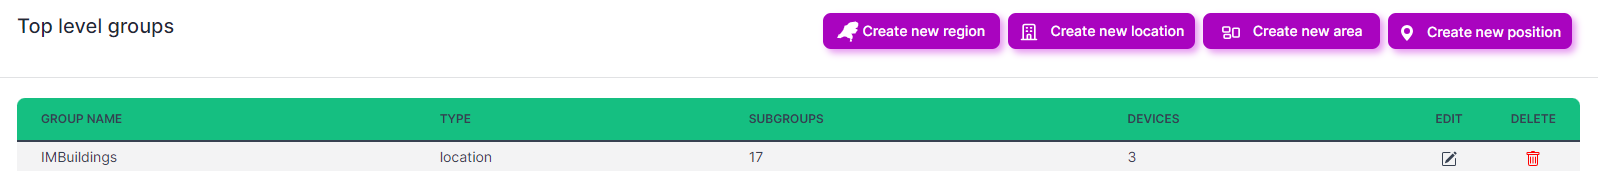
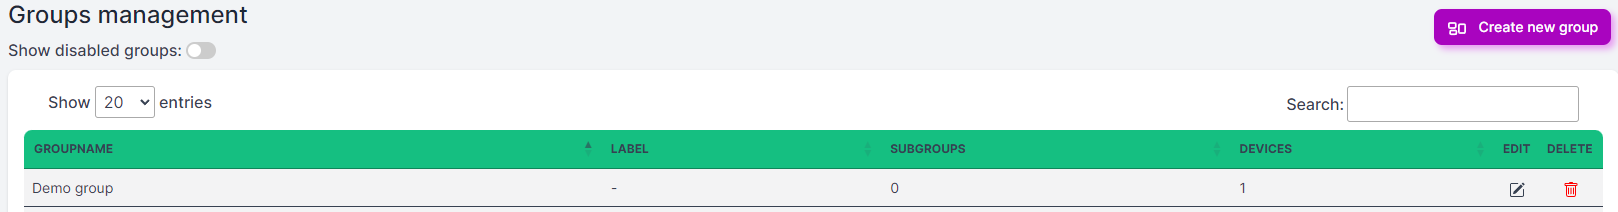
Update Cloud Documentation for V2.0.5

diff --git a/quick-start/cloud/README.md b/quick-start/cloud/README.md
@@ -10,6 +10,8 @@ We will quickly go through the following topics:
 - [Creating users](#creating-users)
 - [Using the dashboard](#using-the-dashboard)
 
+We post demo's on [our YouTube channel](https://www.youtube.com/@immotion4802).
+
 ## Login
 
 Your supplier will share the username and password for login.
@@ -27,22 +29,58 @@ To login open the following URL: [https://app.im-motion.net](https://app.im-moti
 
 !> You can continue to [Adding groups](#adding-groups) when you have a **People Counter NB-IoT** or when your **supplier already added the devices** for you
 
-?> More information is coming soon
+Check out the [claim device demo](https://www.youtube.com/watch?v=BC-9KPNkMdQ) 
+
+You can claim a device on the [devices page](https://app.im-motion.net/devices), click the **Claim a new device** button<img src="./assets/cloud/claim-device-button.png" alt="Claim a new device" class="image-75"> to navigate to the [claim page](https://app.im-motion.net/claim).
+
+!> Make sure the device is turned on before you atempt to claim it. 
+
+**1. Fill in the ID of the device** in the input field. You can find the device ID on the back of the device. The device ID could be labeled as 'Device EUI', 'Node ID' or 'MAC-Address' depending on your device type.
+
+<img src="./assets/cloud/claim-step1.png" alt="claim-step1" class="image-75 image-center image-border">
+
+It may be that you require a 'Release key', if this is not given to you, contact your supplier.
+
+**2. Fill in a name for the device** in the input field. This name should be clear, so you can identify the device without having to check the ID.
+
+<img src="./assets/cloud/claim-step2.png" alt="claim-step2" class="image-75 image-center image-border">
+
+**3. Select a group** in the select field **or create a new group**. You can create a new group by clicking on the 'Create new group button', more on this at [Adding groups](#adding-groups).
+
+<img src="./assets/cloud/claim-step3.png" alt="claim-step3" class="image-75 image-center image-border">
+
+**4. Finished** the claim. You are done with the claim, you will find 3 buttons which you can use to navigate to a desired location
+
+<img src="./assets/cloud/claim-step4.png" alt="claim-step4" class="image-75 image-center image-border">
+
+?> **Note:** you can search within the selection box
+
+!> To have access to the Settings you must have Admin rights.
 
 ## Adding groups
 
-To see data in the [dashboard](https://app.im-motion.net/dashboard/) you need to create one or more locations (groups).
+To see data in the [dashboard](https://app.im-motion.net/dashboard/) you should create one or more groups. Groups have different settings to attend your needs. 
 
-Groups can be managed on the [Group Management page](https://app.im-motion.net/manager/groups). This can be opened via the menu **Settings->Groups**.
+Check out the [add group demo](https://www.youtube.com/watch?v=EhrddjzvBDs).
 
-To add a new location just click the **Create new location** button<img src="./assets/cloud/create-new-location-button.png" alt="Create new location" class="image-75"> on the [Group Management page](https://app.im-motion.net/manager/groups) and fill out the form.
+Groups can be managed on the [Groups page](https://app.im-motion.net/groups). This can be opened via the menu **Settings->Groups**.
 
-<img src="./assets/cloud/create-location.png" alt="create location" class="image-75 image-center image-border">
+To add a new group just click the **Create new group** button<img src="./assets/cloud/add-new-group-button.png" alt="Create new group" class="image-75"> on the [Groups page](https://app.im-motion.net/groups). This button will open the create group wizard as shown in the image below, the wizard consists of 2 steps.
 
-Once the location is added it will appear in the Groups list<br>
+**1. Give the new group a name** in the input field. 
+
+**2. Select one or more devices** in the select field. 
+
+<img src="./assets/cloud/create-new-group-step1.png" alt="create-new-group-step1" class="image-75 image-center image-border">
+
+**3. Select a display setting** in the select field. 
+
+<img src="./assets/cloud/create-new-group-step2.png" alt="create-new-group-step2" class="image-75 image-center image-border">
+
+Once the group is added it will appear in the Groups list<br>
 <img src="./assets/cloud/group-management-list.png" alt="group management list" class="image-75 image-center image-border">
 
-?>**Note** that you can always change the group details by clicking on the edit icon of a group you want to change within the groups overview.
+?>**Note** that you can always change the group details/settings by clicking on the edit icon of a group you want to change within the groups overview.
 
 !> To have access to the Settings you must have Admin rights.
 
@@ -50,25 +88,29 @@ Once the location is added it will appear in the Groups list<br>
 
 Once you have created a group you can link one or more devices to it.
 
-Groups can be managed on the [Group Management page](https://app.im-motion.net/manager/groups). This can be opened via the menu **Settings->Groups**.
+Check out the [link device demo](https://www.youtube.com/watch?v=3nbCeEA9rWg)
+
+Groups can be managed on the [Groups page](https://app.im-motion.net/groups). This can be opened via the menu **Settings->Groups**.
 
 To edit group details click on the group you want to edit.
 
-Devices can be linked by clicking the **Link device** button<img src="./assets/cloud/link-device-button.png" alt="Link device" class="image-75">.
-<img src="./assets/cloud/linked-devices-no-device.png" alt="linked devices" class="image-75 image-center image-border">
+Devices can be linked by clicking the **Link device** button.
+<img src="./assets/cloud/link-device-button.png" alt="linked devices" class="image-75 image-center image-border">
 
-Select or search the device you want to link to this location.
+Select or search the device you want to link to this group.
 <img src="./assets/cloud/link-device-form.png" alt="linked devices" class="image-75 image-center image-border">
 
 ?> **Note:** you can search within the selection box
 
 !>In case there are no devices to select please read the [Adding devices](#adding-devices) section.
 
+!> To have access to the Settings you must have Admin rights.
+
 ## Creating users
 
 To login on the account/tenant we recommend to create a user account for each user who is going to use the platform.
 
-Users can be managed on the [User Management page](https://app.im-motion.net/users/) via the menu **Settings->Users**.
+Users can be managed on the [Users page](https://app.im-motion.net/users/) via the menu **Settings->Users**.
 <img src="./assets/cloud/users-list.png" alt="Users list" class="image-75 image-center image-border">
 
 To add a user simply click on the **Add user** button<img src="./assets/cloud/add-user-button.png" alt="Link device" class="image-75">.
@@ -85,13 +127,13 @@ Enter the username and password for the new user and select the role.
 
 **User**
 
-This user can see the data from all locations.<br>
+This user can see the data from all groups and devices.<br>
 This user does not have access to Settings.
 
 **Restricted user**
 
-A restricted user can only see data from a selected list of locations.<br>
-When adding a restricted user one or more locations can be selected.<br>
+A restricted user can only see data from a selected list of groups.<br>
+When adding a restricted user one or more groups can be selected.<br>
 This user does not have access to Settings.
 
 **Admin**
@@ -103,10 +145,133 @@ When adding the user the platform will ask for **your user credentials** for add
 
 Once the user is added please inform that person by sharing the username and password to allow them to [login](https://app.im-motion.net).
 
-?>**Note**: You can always change the user settings by clicking on the user on the [User Management page](https://app.im-motion.net/users/).
+?>**Note**: You can always change the user settings by clicking on the user on the [Users page](https://app.im-motion.net/users/).
 
 !> A user is always able to change the password on their [Profile page](https://app.im-motion.net/profile)
 
+!> To have access to the Settings you must have Admin rights.
+
 ## Using the dashboard
 
-?> More information is coming soon
+The dashboard is the main page for displaying data to you. 
+
+Check out the [dashboard demo](https://www.youtube.com/watch?v=EhrddjzvBDs).
+
+### Show data
+
+**Select a group**, you can do so in the select box. You can filter out your group by typing the desired groupname. You can also click the other select box labeled 'All groups,' where you will find all the used labels of your groups and a section to view a separate device. 
+
+
+<img src="./assets/cloud/select-group.png" alt="select-group" class="image-75 image-center image-border">
+
+**Select a date** to determine what data will be shown. You can shift through time using the two arrows on the side of the graph. This will move you through time depending on the selected interval. 
+
+<img src="./assets/cloud/select-date.png" alt="select-date" class="image-75 image-center image-border">
+
+**Select an interval**. You can change the interval shown by clicking either 'Day,' 'Week,' 'Month,' or 'Year.' 
+ - *Day*, shows counting data per *hour*
+ - *Week*, shows counting data per *day*
+ - *Month*, shows counting data per *day*
+ - *Year*, shows counting data per *month*
+
+<img src="./assets/cloud/select-interval.png" alt="select-interval" class="image-75 image-center image-border">
+
+
+### Options
+The items listed can be clicked to perform action on/with the shown data.
+- Switch views between counts and occupancy by clicking the button<img src="./assets/cloud/button-switch-dashoard-view.png" alt="button-switch-dashoard-view" class="image-75">
+- Show side of the people counter; press 'in' to view all in counts only. <img src="./assets/cloud/select-counter-side.png" alt="select-counter-side" class="image-75">
+- Stack the bars together by pressing the stack icon. <img src="./assets/cloud/button-stack.png" alt="button-stack" class="image-100">
+- Zoom into your data (left) and use the other icon to reset the view (right). <img src="./assets/cloud/button-zoom.png" alt="button-zoom" class="image-100">
+- Download icon to download the current view as an image. <img src="./assets/cloud/button-download-image.png" alt="button-download-image" class="image-100">
+- Download the current view's raw data by pressin the 'download data as XLSX' button. <img src="./assets/cloud/button-download-data-xlsx.png" alt="button-download-image" class="image-75">
+- Add a note to the selected group by pressing the 'add note' icon. <img src="./assets/cloud/button-notes.png" alt="button-download-image" class="image-75">
+- Underneath the chart, you can select and unselect the items that are shown. <img src="./assets/cloud/button-dissable-enable-sensor.png" alt="button-download-image" class="image-75">
+- The next items can be found for groups in the top-right:
+    - Click on the selected wqgroup name to navigate to the group details. 
+    - Click on the subgroup name to select that group on the dashboard. 
+    - Click on the status icon to show the errors of the device, just like the bell icon that appears. 
+    - Click on 'Personalize dashboard' with the gear icon, to navigate to the profile page where you can set the [personalized settings](https://app.im-motion.net./profile#header_dashboardsettings) .
+<img src="./assets/cloud/dashboard-groupinfo.png" alt="select-interval" class="image-75 image-center image-border">
+
+## Dashboard personalisation
+The dashboard settings can be found on the profile page. On the profile page, scroll down a bit to find the dashboard settings. You can also click on 'Dashboard Settings' in the right page navigation. Changes done on this page will autometically be saved.
+
+Check out the [dashboard settings demo](https://www.youtube.com/watch?v=YMDl9sEuG1o).
+
+<img src="./assets/cloud/dashboard-settings.png" alt="select-interval" class="image-75 image-center image-border">
+
+
+### Default settings 
+Upon visiting the dashboard, the selected group, along with the chosen settings, will be displayed, ensuring immediate visibility for efficient management within the platform.
+- **Default group**: Select a group, this group will be shown upon visiting the dashboard. 
+- **Default interval**: Select an interval, this interval will be selected upon visiting the dashboard.
+- **Show Data Start/End Time**: Select a start time and end time, these times indicate the data period of which you will see data of a day. For example, you can set the opening hours of your location, like from nine to five, only data between nine to five will be used for all intervals.
+- **Occupancy or bars**: Upon visiting the dashboard, this display type will initially be shown only be used for people counter display. 
+- **Start stacked**: Upon visiting the dashboard, the stack option sets the bars to be stacked. 
+- **Show empty groups in select**: Filter out empty groups in the select field. Some groups may just exist for logical structuring of your data, and it is likely useless for these groups to be available in your selection.
+
+### Visual settings.
+With these settings, you can make customizations to the chart on the dashboard, making its appearance and functionality to suit your preferences. It's important to note that these customizations solely affect the visual representation of the data and do not alter the underlying data itself in any way.
+- **Bar style**: With the rounded setting selected the bars may be visually more pleasing to you.
+- **Show Negative Occupancy**: This is for the occupancy display, and by default, this setting is turned off. Occupancy below zero is not shown on the dashboard since it should not be possible to have a negative number of people inside a room. When you turn this feature on, the negative values will be shown on the dashboard. These negative values may occur due to the 'in-side' of the device not being configured correctly.
+- **Show summary of the counts**: This summary includes '*the total in and out*', '*average in and out*', '*the time and value of the highest count*', '*the estimated time inside per visit*', and for the occupancy display, the *efficiency of the group occupancy compared to the capacity*. <img src="./assets/cloud/dashboard-summary.png" alt="dashboard-summary" class="image-75 image-center image-border">
+- **Show sensor names under the chart**: When this is unselected, there will be more space for other items, and the page might look cleaner, but you can no longer temporarily hide a device. 
+- **Show numbers in bars**: Shows the values in the bars or hide the values. This may be visually more pleasing to you.
+- **Show Heatmap**: If you wish to not show the heatmap on the dashboard, you can unselect this setting.
+- **Show Predicted Count in Bars**: With this setting, we look at the last couple of weeks to try to predict how many counts will be made per sensor. The prediction is added as a layer over the actual counts, and in future times you will see a lightened colored bar to indicate the prediction.
+<img src="./assets/cloud/dashboard-prediction.png" alt="dashboard-prediction" class="image-75 image-center image-border">
+
+## Group configurations
+
+Groups can be managed on the [Groups page](https://app.im-motion.net/groups). This can be opened via the menu **Settings->Groups**.
+
+Check out the [group configuration demo](https://www.youtube.com/watch?v=vHBF5U93hB8).
+
+How to **add groups** is explained at the header [Adding groups](#adding-groups).
+
+How to **link device** to a group is explained at the header [Link devices to groups](#link-devices-to-groups).
+
+!> To have access to the Settings you must have Admin rights.
+
+### Link groups
+Groups can be linked to each other in a hierarchical, tree-like structure to organize and clarify complex data. In this setup, each group can act as a "subgroup" or "parentgroup" linked to other groups. This tree structure allows you to categorize information logically, with broader categories (like: buildings) at higher levels and more specific details branching out below (like: rooms inside the building). This method not only helps in visualizing relationships between different groups but also makes it easier to navigate and manage your data, ensuring a clear and logical flow of information.
+
+<img src="./assets/cloud/group-subgroup.png" alt="group-subgroup" class="image-75 image-center image-border">
+
+- Click **Link a subgroup** to select a group to the currently selected group.
+- Click on the **edit icon** to so navigate to that group.
+- Click on the **inlink icon** to unlink that group from the currently selected group.
+
+If you link groups together you can get a tree-like-structure like below. You can click on the names to expand or collapse groups with subgroups.
+<img src="./assets/cloud/group-tree.png" alt="group-tree" class="image-75 image-center image-border">
+
+### Additional info
+Additional info gives more information about the group and can also help find the selected group. Click on the text to open the tab. 
+- **Label**: A label can be used to filter on the dashboard; there are some default values, but you can also create a custom label by clicking on the icon.
+- **Location code**: This code will be added after the name of the group in select items to find the desired group more easily.
+- **Address**: Gives more information about where the group of devices is located.
+- **ZIP**: Gives more information about where the group of devices is located.
+- **Country**: Gives more information about where the group of devices is located. On the compare page, you can click on a country to select all groups of that country.
+- **Timezone**: If the group is located in a different timezone then the timezone you are watching the data from, your data will be displayed in the correct timezone.
+- **Desciption**: Gives more information about the group.
+
+<img src="./assets/cloud/group-additional-info.png" alt="dashboard-prediction" class="image-75 image-center image-border">
+
+### Display settings
+Any changes made will be shown in the data preview below. 
+
+- **Bar display**: The view can be turned *on/off*.
+    - **Show total or individual**: Show bars per individual sensor or group the devices together and show the data as the total of the counts per interval.
+    - **Show sides**: If you are only interested in one side of the People Counter data, you can select this side here and only that side will be displayed.
+
+- **Occupancy display**: The view can be turned *on/off*.
+    - **Capacity**: The capacity will show a red-dotted line that indicates the capacity. You can use this to compare it to the occupancy.
+    - **Reset time** (full hour): At this hour the occupancy will be reset to 0, this is meant to fix any deviation on the end of a day. 
+
+<img src="./assets/cloud/group-display-settings.png" alt="dashboard-prediction" class="image-75 image-center image-border">
+
+<!-- 
+use yt videos where needed
+    Groups/display settings - > groups page
+-->
